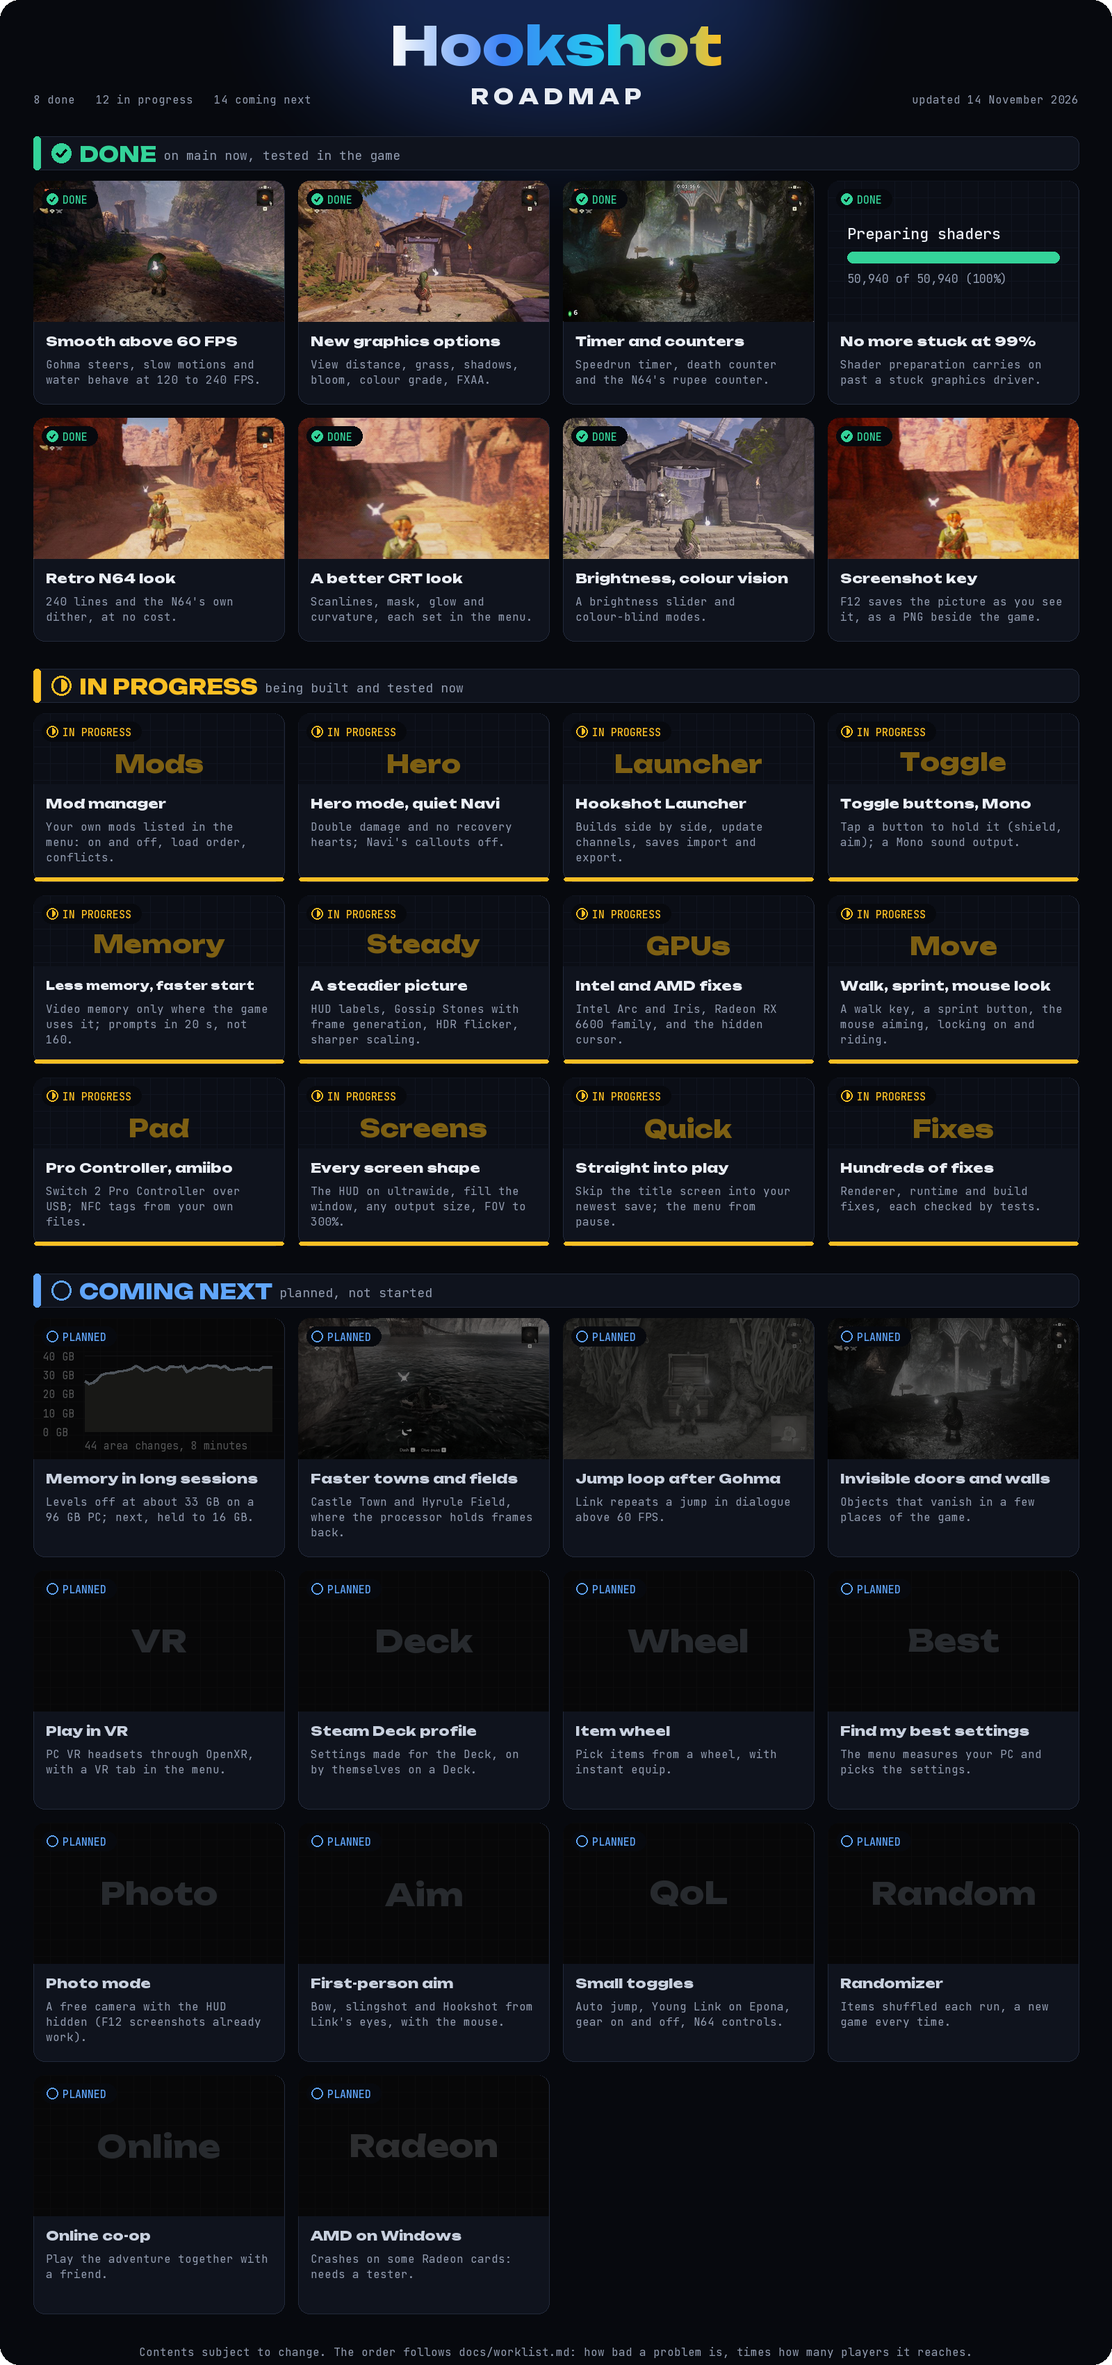
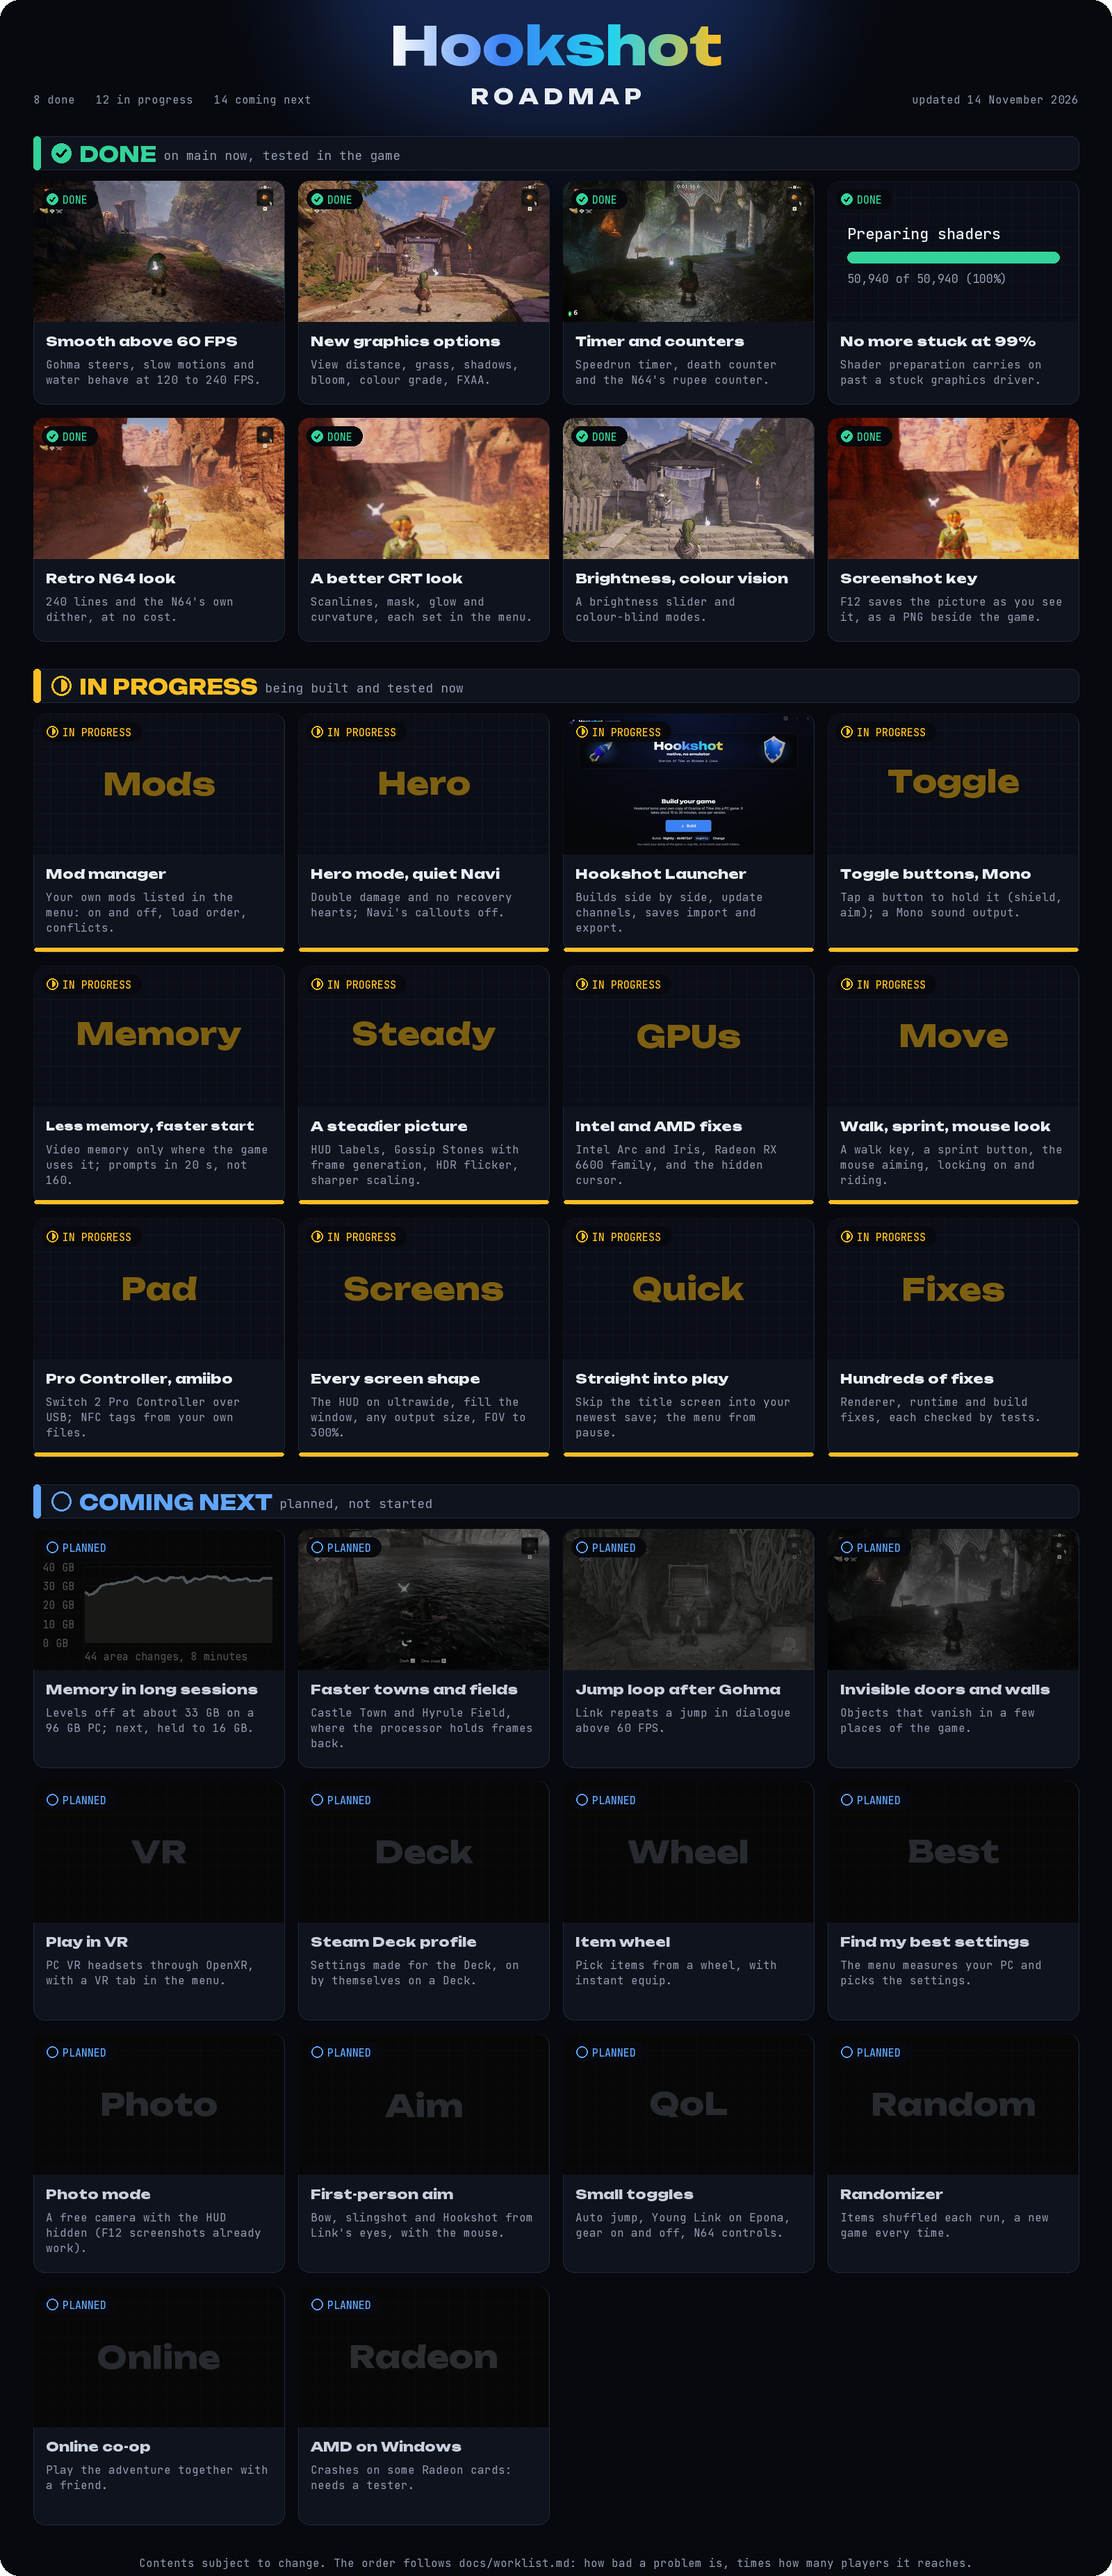
docs(roadmap): the Hookshot Launcher card shows the launcher's own home screen

diff --git a/scripts/make_roadmap.py b/scripts/make_roadmap.py
@@ -36,7 +36,7 @@ STAGES = [
     ("doing", "IN PROGRESS", "being built and tested now", AMBER, [
         ("panel:name:Mods", "Mod manager", "Your own mods listed in the menu: on and off, load order, conflicts."),
         ("panel:name:Hero", "Hero mode, quiet Navi", "Double damage and no recovery hearts; Navi's callouts off."),
-        ("panel:name:Launcher", "Hookshot Launcher", "Builds side by side, update channels, saves import and export."),
+        ("launcher.jpg", "Hookshot Launcher", "Builds side by side, update channels, saves import and export."),
         ("panel:name:Toggle", "Toggle buttons, Mono", "Tap a button to hold it (shield, aim); a Mono sound output."),
         ("panel:name:Memory", "Less memory, faster start", "Video memory only where the game uses it; prompts in 20 s, not 160."),
         ("panel:name:Steady", "A steadier picture", "HUD labels, Gossip Stones with frame generation, HDR flicker, sharper scaling."),
